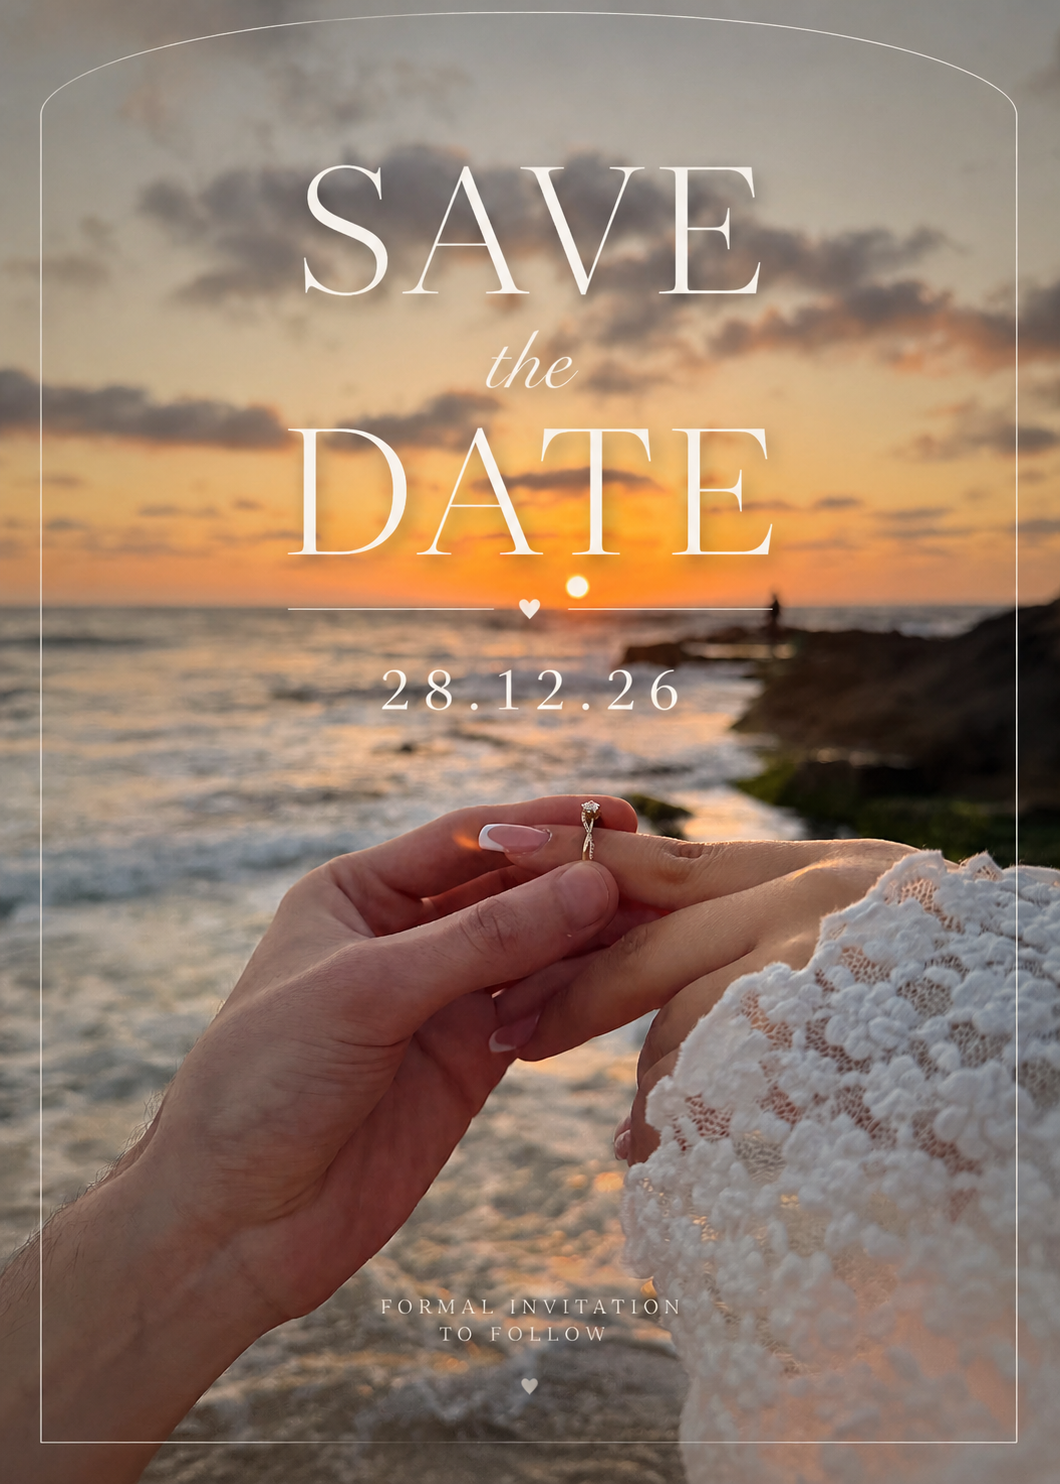
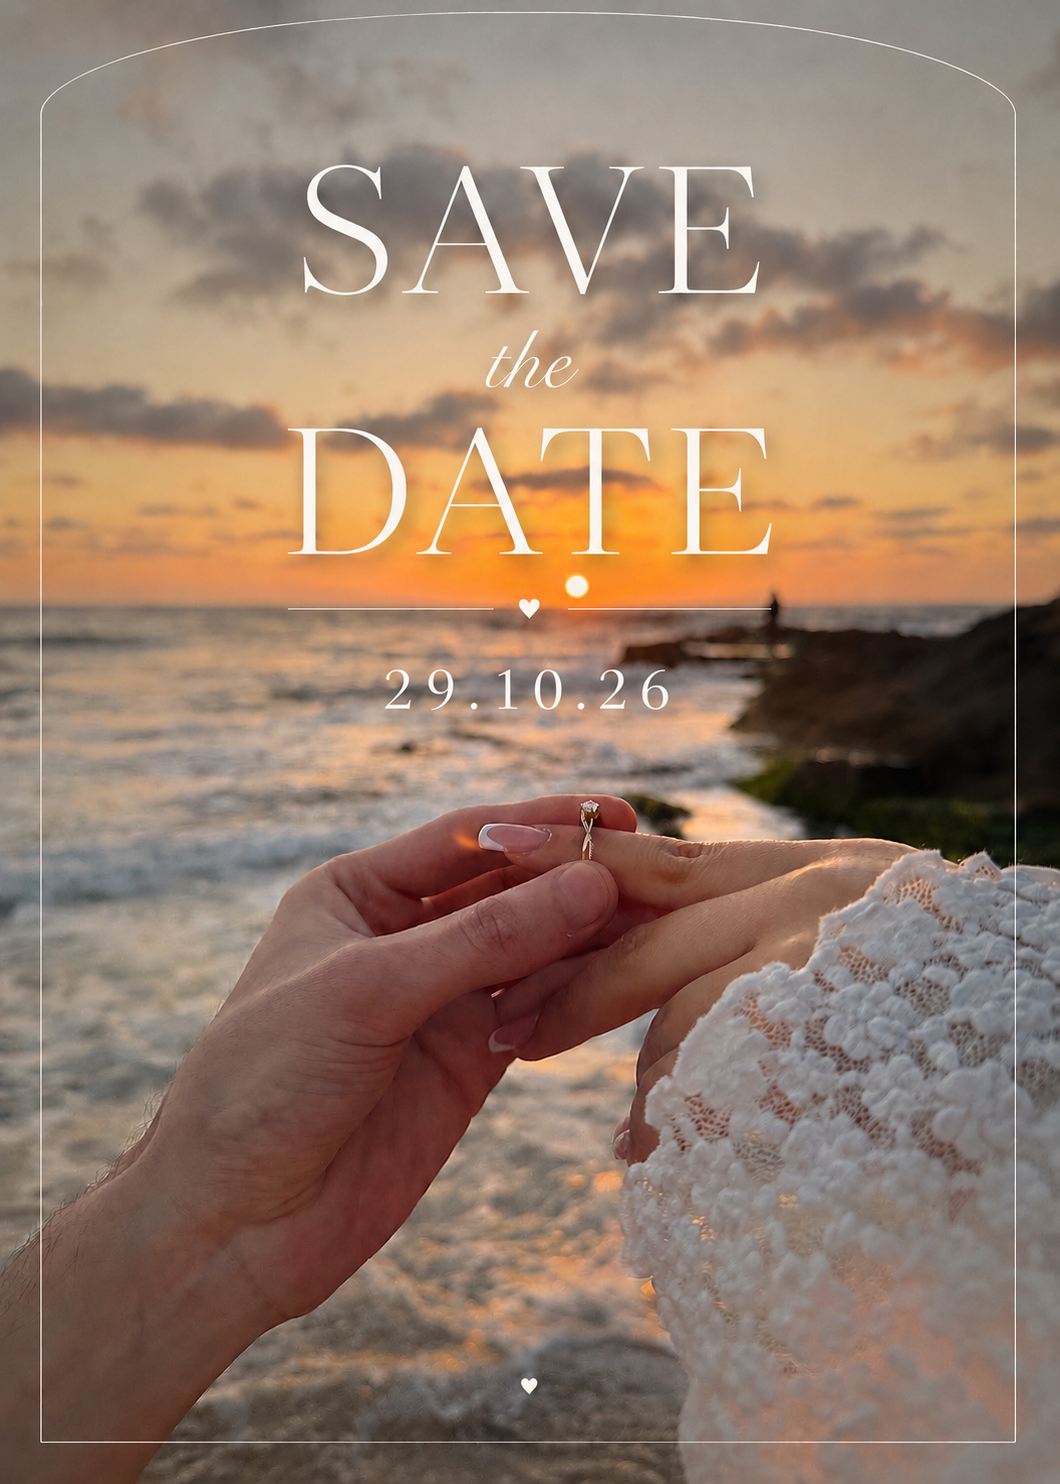
fix date and place

diff --git a/app/Invitation.tsx b/app/Invitation.tsx
@@ -108,9 +108,9 @@ export default function Invitation({ photoId }: InvitationProps) {
             <circle cx="60" cy="60" r="36" fill="none" stroke="rgba(255,220,150,0.25)" strokeWidth="0.6"/>
           </svg>
           <div className="stamp-inner" dir="ltr">
-            <span className="stamp-date-num">28</span>
+            <span className="stamp-date-num">29</span>
             <span className="stamp-date-dot">.</span>
-            <span className="stamp-date-num">12</span>
+            <span className="stamp-date-num">10</span>
             <span className="stamp-date-dot">.</span>
             <span className="stamp-date-num">26</span>
           </div>
@@ -143,9 +143,9 @@ export default function Invitation({ photoId }: InvitationProps) {
               <circle cx="60" cy="60" r="36" fill="none" stroke="rgba(255,220,150,0.25)" strokeWidth="0.6"/>
             </svg>
             <div className="stamp-inner" dir="ltr">
-              <span className="stamp-date-num">28</span>
+              <span className="stamp-date-num">29</span>
               <span className="stamp-date-dot">.</span>
-              <span className="stamp-date-num">12</span>
+              <span className="stamp-date-num">10</span>
               <span className="stamp-date-dot">.</span>
               <span className="stamp-date-num">26</span>
             </div>
@@ -194,8 +194,8 @@ export default function Invitation({ photoId }: InvitationProps) {
                 </svg>
               </div>
               <span className="info-tile-label">תאריך</span>
-              <span className="info-tile-value">י״ח בטבת</span>
-              <span className="info-tile-sub">תשפ״ז · 28.12.2026</span>
+              <span className="info-tile-value">י״ח בחשוון</span>
+              <span className="info-tile-sub">תשפ״ז · 29.10.2026</span>
             </div>
 
             <div className="info-tile">
@@ -207,9 +207,9 @@ export default function Invitation({ photoId }: InvitationProps) {
                 </svg>
               </div>
               <span className="info-tile-label">מיקום</span>
-              <span className="info-tile-value">Vigo, Kiryat Ekron</span>
-              <span className="info-tile-sub">Bussy Saint Georges St 9</span>
-              <span className="info-tile-sub" style={{ marginTop: '0.2rem', fontWeight: 500 }}>חופה בשעה 18:00</span>
+              <span className="info-tile-value">Leonardo, Ashdod</span>
+              <span className="info-tile-sub">HaYam HaTichon Blvd 1</span>
+              <span className="info-tile-sub" style={{ marginTop: '0.2rem', fontWeight: 500 }}>קבלת פנים בשעה 18:30 · חופה בשעה 19:30</span>
             </div>
           </div>
 

diff --git a/app/rsvp/page.js b/app/rsvp/page.js
@@ -381,7 +381,7 @@ function RSVPContent() {
                 <svg viewBox="0 0 20 20" fill="none" xmlns="http://www.w3.org/2000/svg" className="heart-icon">
                     <path d="M10 17s-8-5-8-10a4 4 0 018 0 4 4 0 018 0c0 5-8 10-8 10z" fill="rgba(180,140,100,0.4)" />
                 </svg>
-                שירה &amp; גדליה · 3 בספטמבר 2026
+                שירה &amp; גדליה · 29 באוקטובר 2026
                 <svg viewBox="0 0 20 20" fill="none" xmlns="http://www.w3.org/2000/svg" className="heart-icon">
                     <path d="M10 17s-8-5-8-10a4 4 0 018 0 4 4 0 018 0c0 5-8 10-8 10z" fill="rgba(180,140,100,0.4)" />
                 </svg>

diff --git a/app/admin/page.js b/app/admin/page.js
@@ -318,7 +318,7 @@ export default function AdminDashboard() {
                         </div>
                         <div>
                             <h1 className="dash-title">לוח בקרה</h1>
-                            <p className="dash-sub">שירה &amp; גדליה · 3 בספטמבר 2026</p>
+                            <p className="dash-sub">שירה &amp; גדליה · 29 באוקטובר 2026</p>
                         </div>
                     </div>
                     <button onClick={() => setIsAuthenticated(false)} className="logout-btn">

diff --git a/app/layout.tsx b/app/layout.tsx
@@ -3,7 +3,7 @@ import "./globals.css";
 
 export const metadata: Metadata = {
   title: "החתונה של שירה וגדליה",
-  description: "הזמנה לחתונה של שירה וגדליה - 3 בספטמבר 2026",
+  description: "הזמנה לחתונה של שירה וגדליה - 29 באוקטובר 2026",
 };
 
 export default function RootLayout({
